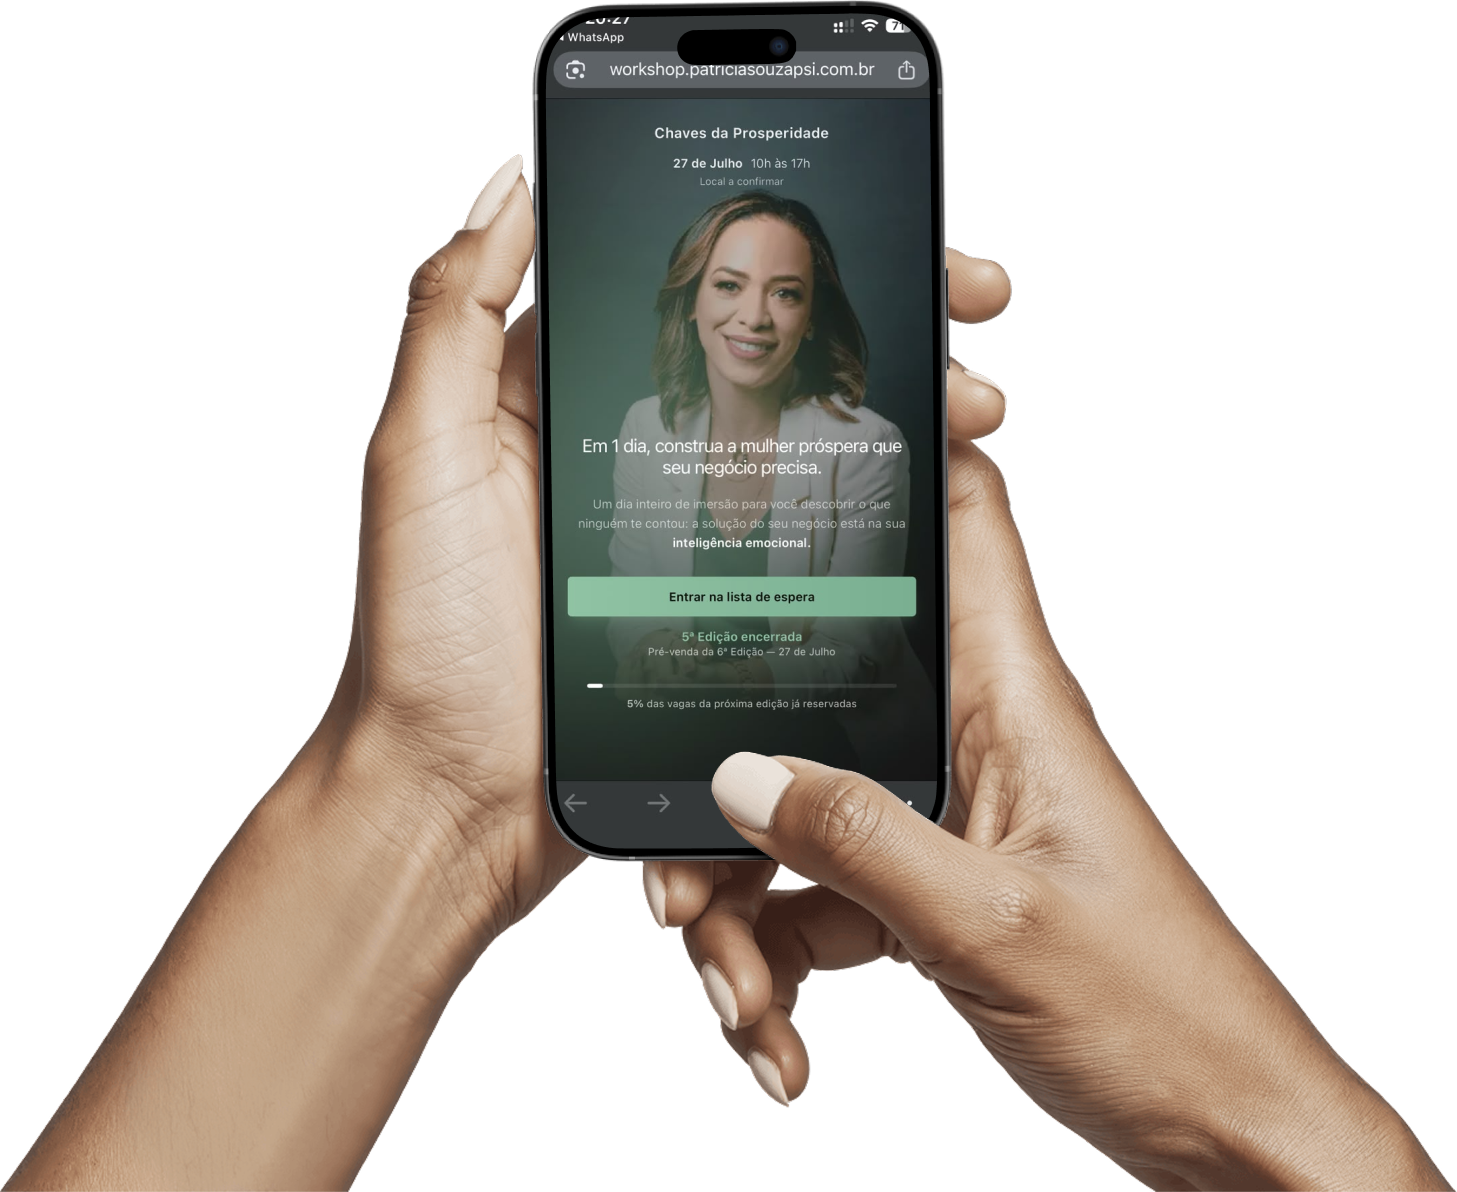
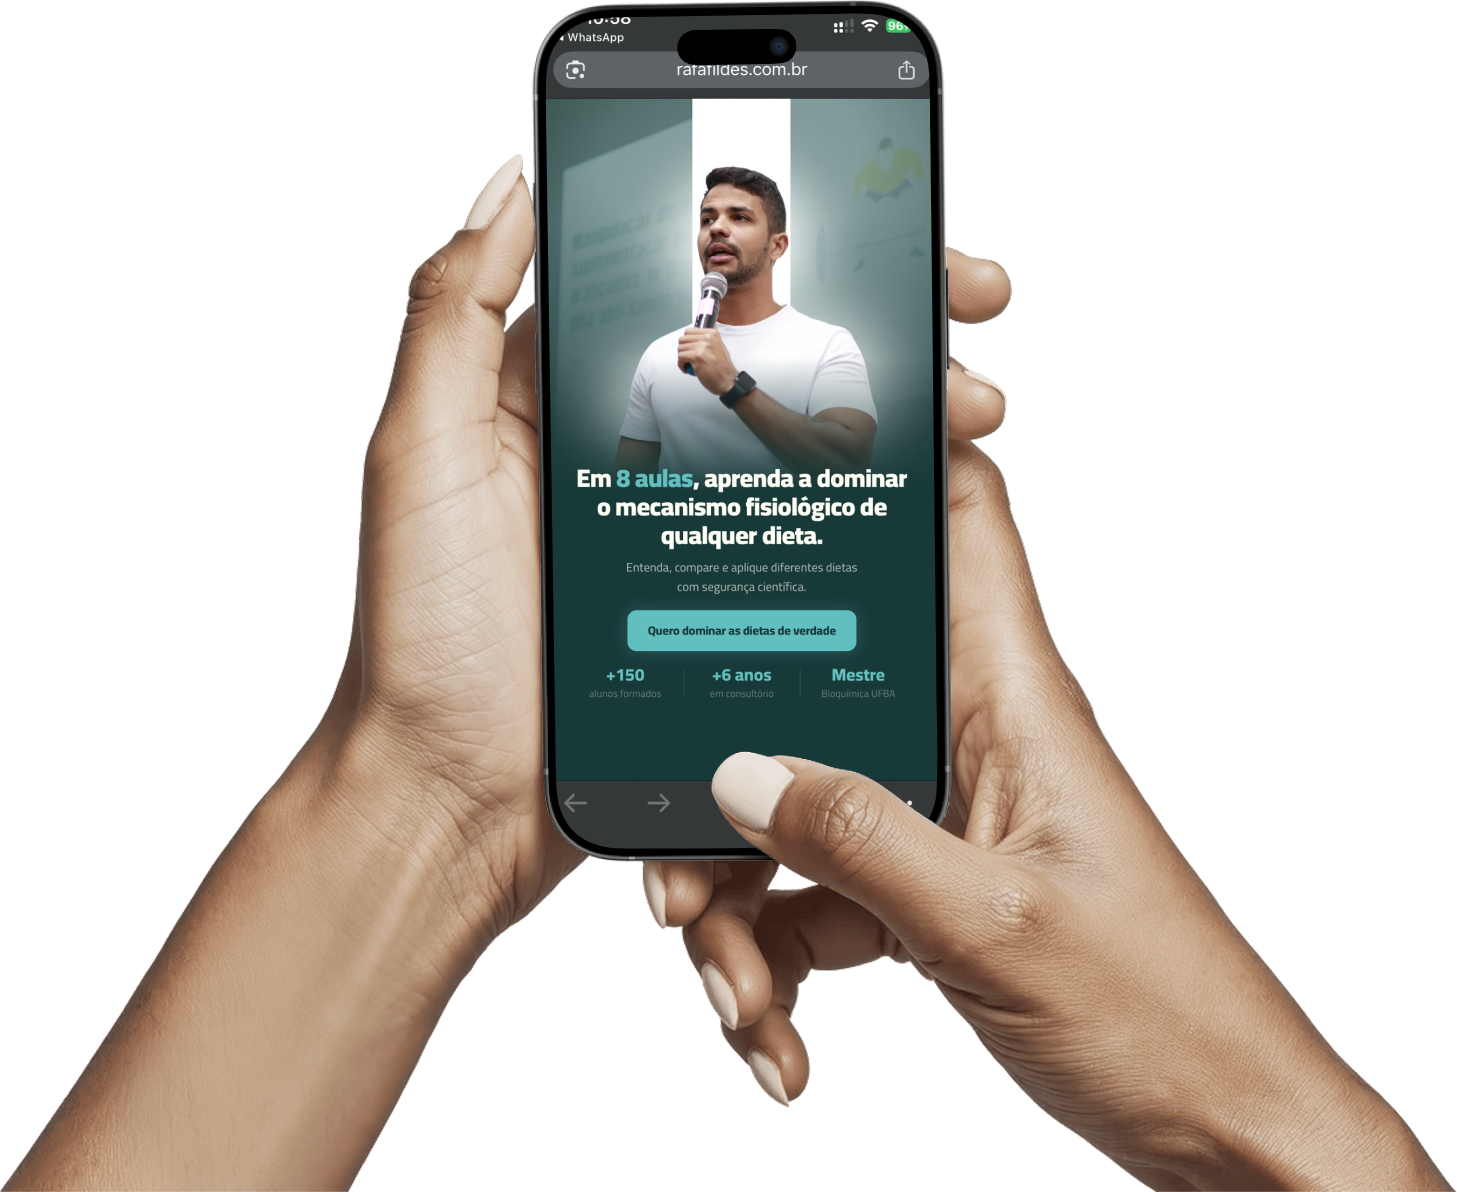
Adapt linktree to Rafael Fildes: content, brand colors, and mobile polish
Replace placeholder content, links, and images with Rafael Fildes'
info, apply his visual identity (colors, Cairo font, circular favicon),
add premium hover styling to CTA buttons, and tune spacing/sizing for
mobile while keeping the image-right/text-left card format intact.

Changed region(s): [[0.3706, 0.031, 0.6486, 0.6518], [0.5868, 0.0, 0.6177, 0.031], [0.4015, 0.0, 0.4324, 0.031]]

diff --git a/src/app/page.tsx b/src/app/page.tsx
@@ -35,7 +35,7 @@ export default function LinktreePage() {
       </section>
 
       {/* Link blocks */}
-      <section className="w-full max-w-xl flex flex-col gap-6">
+      <section className="w-full max-w-xl flex flex-col gap-5 sm:gap-6">
         {LINKS.map((link, index) =>
           link.variant === "card" ? (
             <a
@@ -44,13 +44,13 @@ export default function LinktreePage() {
               target="_blank"
               rel="noopener noreferrer"
               style={{ animationDelay: `${index * 90}ms` }}
-              className="animate-fade-in-up group relative flex items-center rounded-[28px] overflow-hidden bg-[#1E1E1E] ring-1 ring-[#90C3A4]/20 min-h-[170px] sm:min-h-[250px] shadow-[0_10px_35px_rgba(0,0,0,0.25)] hover:-translate-y-1 hover:ring-[#90C3A4]/40 hover:shadow-[0_16px_45px_rgba(0,0,0,0.32)] transition-all duration-300 ease-out"
+              className="animate-fade-in-up group relative flex items-center rounded-[22px] sm:rounded-[28px] overflow-hidden bg-[#173A39] ring-1 ring-[#90C3A4]/20 min-h-[170px] sm:min-h-[250px] shadow-[0_8px_28px_rgba(0,0,0,0.22)] sm:shadow-[0_10px_35px_rgba(0,0,0,0.25)] hover:-translate-y-1 hover:ring-[#90C3A4]/40 hover:shadow-[0_16px_45px_rgba(0,0,0,0.32)] transition-all duration-300 ease-out"
             >
               {/* Sheen */}
               <div className="pointer-events-none absolute inset-0 bg-gradient-to-b from-white/[0.04] to-transparent" />
 
               {/* Image – right side */}
-              <div className="absolute right-0 inset-y-0 w-1/2 overflow-hidden">
+              <div className="absolute right-0 inset-y-0 w-[58%] overflow-hidden">
                 <Image
                   src={link.image}
                   alt=""
@@ -60,22 +60,22 @@ export default function LinktreePage() {
                       ? "object-contain object-bottom p-1.5 translate-y-3"
                       : "object-cover object-top"
                   } scale-100 group-hover:scale-105 transition-transform duration-700 ease-out`}
-                  sizes="(max-width: 448px) 50vw, 224px"
+                  sizes="(max-width: 448px) 58vw, 260px"
                 />
-                <div className="absolute inset-0 bg-gradient-to-r from-[#1E1E1E] via-[#1E1E1E]/10 to-transparent" />
+                <div className="absolute inset-0 bg-gradient-to-r from-[#173A39] via-[#173A39]/10 to-transparent" />
               </div>
 
               {/* Text – left side */}
-              <div className="relative z-10 px-8 py-8 w-[58%] flex flex-col gap-2">
-                <h2 className="font-heading font-bold text-[#F5F3EF] text-[1.4rem] sm:text-[2.25rem] leading-[1.1] tracking-wide">
+              <div className="relative z-10 px-5 py-5 sm:px-8 sm:py-8 w-[58%] flex flex-col gap-2">
+                <h2 className="font-heading font-bold text-[#61BFBF] text-lg sm:text-[2.25rem] leading-tight sm:leading-[1.1] tracking-wide">
                   {link.title}
                 </h2>
-                <div className="mt-4">
-                  <span className="inline-flex items-center gap-2 sm:gap-3 bg-gradient-to-r from-[#A8D4B8] to-[#7FB094] text-[#1E1E1E] font-body font-semibold text-xs sm:text-lg rounded-xl sm:rounded-2xl pl-3.5 pr-1 py-1 sm:pl-7 sm:pr-2 sm:py-2 shadow-[0_8px_22px_rgba(144,195,164,0.25)] ring-1 ring-white/15 transition-all duration-300 group-hover:shadow-[0_10px_28px_rgba(144,195,164,0.4)] group-hover:brightness-105">
-                    {link.cta}
-                    <span className="flex items-center justify-center w-6 h-6 sm:w-9 sm:h-9 rounded-full bg-[#1E1E1E]/15 shrink-0 transition-all duration-300 group-hover:bg-[#1E1E1E]/25 group-hover:translate-x-0.5">
-                      <ArrowRight className="w-3 h-3 sm:w-[18px] sm:h-[18px]" />
-                    </span>
+                <div className="relative mt-3 flex items-center justify-center gap-2 w-[75%] min-h-[36px] sm:min-h-[44px] overflow-hidden bg-gradient-to-br from-[#7ACDCD] via-[#61BFBF] to-[#4CA3A3] text-[#FFFFFF] font-body font-semibold text-xs sm:text-sm text-center rounded-lg sm:rounded-xl px-3 sm:px-5 py-1.5 sm:py-2 ring-1 ring-white/25 shadow-[0_6px_18px_rgba(97,191,191,0.3)] transition-all duration-500 ease-out group-hover:-translate-y-0.5 group-hover:shadow-[0_12px_28px_rgba(97,191,191,0.5)] group-hover:brightness-110 group-active:scale-[0.98]">
+                  {/* Shine sweep */}
+                  <span className="pointer-events-none absolute inset-0 -translate-x-[120%] skew-x-[-20deg] bg-gradient-to-r from-transparent via-white/30 to-transparent transition-transform duration-700 ease-out group-hover:translate-x-[120%]" />
+                  <span className="relative z-10 tracking-wide">{link.cta}</span>
+                  <span className="relative z-10 flex items-center justify-center w-5 h-5 sm:w-7 sm:h-7 rounded-full bg-white/15 ring-1 ring-white/20 shrink-0 transition-all duration-300 group-hover:bg-white/25 group-hover:translate-x-1">
+                    <ArrowRight className="w-2.5 h-2.5 sm:w-3.5 sm:h-3.5" />
                   </span>
                 </div>
               </div>
@@ -87,10 +87,12 @@ export default function LinktreePage() {
               target="_blank"
               rel="noopener noreferrer"
               style={{ animationDelay: `${index * 90}ms` }}
-              className="animate-fade-in-up group flex items-center justify-center gap-3 w-full min-h-[64px] bg-gradient-to-r from-[#A8D4B8] to-[#7FB094] text-[#1E1E1E] font-body font-semibold text-base sm:text-lg text-center rounded-2xl px-7 py-4 shadow-[0_8px_22px_rgba(144,195,164,0.25)] ring-1 ring-white/15 transition-all duration-300 hover:-translate-y-1 hover:shadow-[0_10px_28px_rgba(144,195,164,0.4)] hover:brightness-105"
+              className="animate-fade-in-up group relative flex items-center justify-center gap-3 w-full min-h-[64px] overflow-hidden bg-gradient-to-br from-[#7ACDCD] via-[#61BFBF] to-[#4CA3A3] text-[#FFFFFF] font-body font-semibold text-base sm:text-lg text-center rounded-2xl px-7 py-4 ring-1 ring-white/25 shadow-[0_8px_24px_rgba(97,191,191,0.35)] transition-all duration-500 ease-out hover:-translate-y-1 hover:shadow-[0_16px_40px_rgba(97,191,191,0.55)] hover:brightness-110 active:scale-[0.98]"
             >
-              <span>{link.cta}</span>
-              <span className="flex items-center justify-center w-8 h-8 sm:w-9 sm:h-9 rounded-full bg-[#1E1E1E]/15 shrink-0 transition-all duration-300 group-hover:bg-[#1E1E1E]/25 group-hover:translate-x-0.5">
+              {/* Shine sweep */}
+              <span className="pointer-events-none absolute inset-0 -translate-x-[120%] skew-x-[-20deg] bg-gradient-to-r from-transparent via-white/30 to-transparent transition-transform duration-700 ease-out group-hover:translate-x-[120%]" />
+              <span className="relative z-10 tracking-wide">{link.cta}</span>
+              <span className="relative z-10 flex items-center justify-center w-8 h-8 sm:w-9 sm:h-9 rounded-full bg-white/15 ring-1 ring-white/20 shrink-0 transition-all duration-300 group-hover:bg-white/25 group-hover:translate-x-1">
                 <ArrowRight className="w-4 h-4 sm:w-[18px] sm:h-[18px]" />
               </span>
             </a>

diff --git a/src/lib/constants.ts b/src/lib/constants.ts
@@ -1,47 +1,35 @@
-export const PROFESSIONAL_NAME = "Patricia Souza";
-export const PROFESSIONAL_TITLE = "Psicoterapeuta e Mentora de Negócios";
+export const PROFESSIONAL_NAME = "Rafael Fildes";
+export const PROFESSIONAL_TITLE = "Nutricionista e Professor";
 export const PROFESSIONAL_BIO = "";
 
 export const LINKS = [
   {
     id: "atendimento",
     variant: "card",
-    title: "Sessão Terapêutica",
+    title: "Consulta Nutricionista",
     cta: "Conheça",
     image: "/atendimento.png",
-    href: "https://api.whatsapp.com/send?phone=557187092434",
+    href: "https://api.whatsapp.com/message/2O6K6BSAPLPNP1",
   },
   {
-    id: "sementes",
+    id: "atlas-da-dieta",
     variant: "card",
-    title: "Conheça o Sementes da Prosperidade",
-    cta: "Fazer Parte",
+    title: "Domine qualquer dieta com o Atlas",
+    cta: "Quero conhecer",
     image: "/sementes.png",
     imageFit: "contain",
-    href: "https://workshop.patriciasouzapsi.com.br",
-  },
-  {
-    id: "imersao",
-    variant: "button",
-    cta: "Lista de espera Imersão Chaves",
-    href: "https://form.respondi.app/wEcBq4qa",
-  },
-  {
-    id: "mentoria",
-    variant: "button",
-    cta: "Lista de espera Mentoria",
-    href: "https://form.respondi.app/wEcBq4qa",
+    href: "https://www.rafafildes.com.br/",
   },
   {
     id: "palestras",
     variant: "button",
     cta: "Contato para Palestras e Treinamentos",
-    href: "https://api.whatsapp.com/send?phone=557188461603&text=Ol%C3%A1!%20Tenho%20interesse%20em%20contratar%20palestras%20e%20treinamentos.%20Como%20posso%20obter%20mais%20informa%C3%A7%C3%B5es%3F",
+    href: "https://api.whatsapp.com/send?phone=5571981672366&text=Como%20funcionam%20suas%20palestras%20e%20treinamentos%3F",
   },
   {
     id: "duvidas",
     variant: "button",
     cta: "Ficou com alguma dúvida? Entre em contato",
-    href: "https://api.whatsapp.com/send?phone=557188461603&text=Ol%C3%A1!%20Tenho%20algumas%20d%C3%BAvidas.",
+    href: "https://api.whatsapp.com/send?phone=5571981672366&text=Ol%C3%A1!%20Tenho%20algumas%20d%C3%BAvidas.",
   },
 ] as const;

diff --git a/src/app/layout.tsx b/src/app/layout.tsx
@@ -1,15 +1,15 @@
 import type { Metadata } from "next";
-import { Playfair_Display, Montserrat } from "next/font/google";
+import { Cairo } from "next/font/google";
 import "./globals.css";
 
-const playfairDisplay = Playfair_Display({
+const cairoBold = Cairo({
   subsets: ["latin"],
   display: "swap",
-  weight: "400",
+  weight: "700",
   variable: "--font-heading",
 });
 
-const montserrat = Montserrat({
+const cairoRegular = Cairo({
   subsets: ["latin"],
   display: "swap",
   weight: "400",
@@ -17,11 +17,11 @@ const montserrat = Montserrat({
 });
 
 export const metadata: Metadata = {
-  title: "Patricia Souza",
-  description: "Links úteis de Patricia Souza.",
+  title: "Rafael Fildes",
+  description: "Links úteis de Rafael Fildes.",
   icons: {
-    icon: [{ url: "/profile.jpg", type: "image/jpeg" }],
-    apple: [{ url: "/profile.jpg", type: "image/jpeg" }],
+    icon: [{ url: "/favicon.png", type: "image/png" }],
+    apple: [{ url: "/favicon.png", type: "image/png" }],
   },
 };
 
@@ -33,7 +33,7 @@ export default function RootLayout({
   return (
     <html
       lang="pt-BR"
-      className={`${playfairDisplay.variable} ${montserrat.variable}`}
+      className={`${cairoBold.variable} ${cairoRegular.variable}`}
     >
       <body className="font-body antialiased">{children}</body>
     </html>

diff --git a/src/app/globals.css b/src/app/globals.css
@@ -13,6 +13,9 @@
   --text-muted: #6B675F;
   --text-subtle: #9C978C;
   --white: #FFFFFF;
+  --block-bg: #173A39;
+  --block-accent: #61BFBF;
+  --block-secondary: #FFFFFF;
 }
 
 @theme inline {
